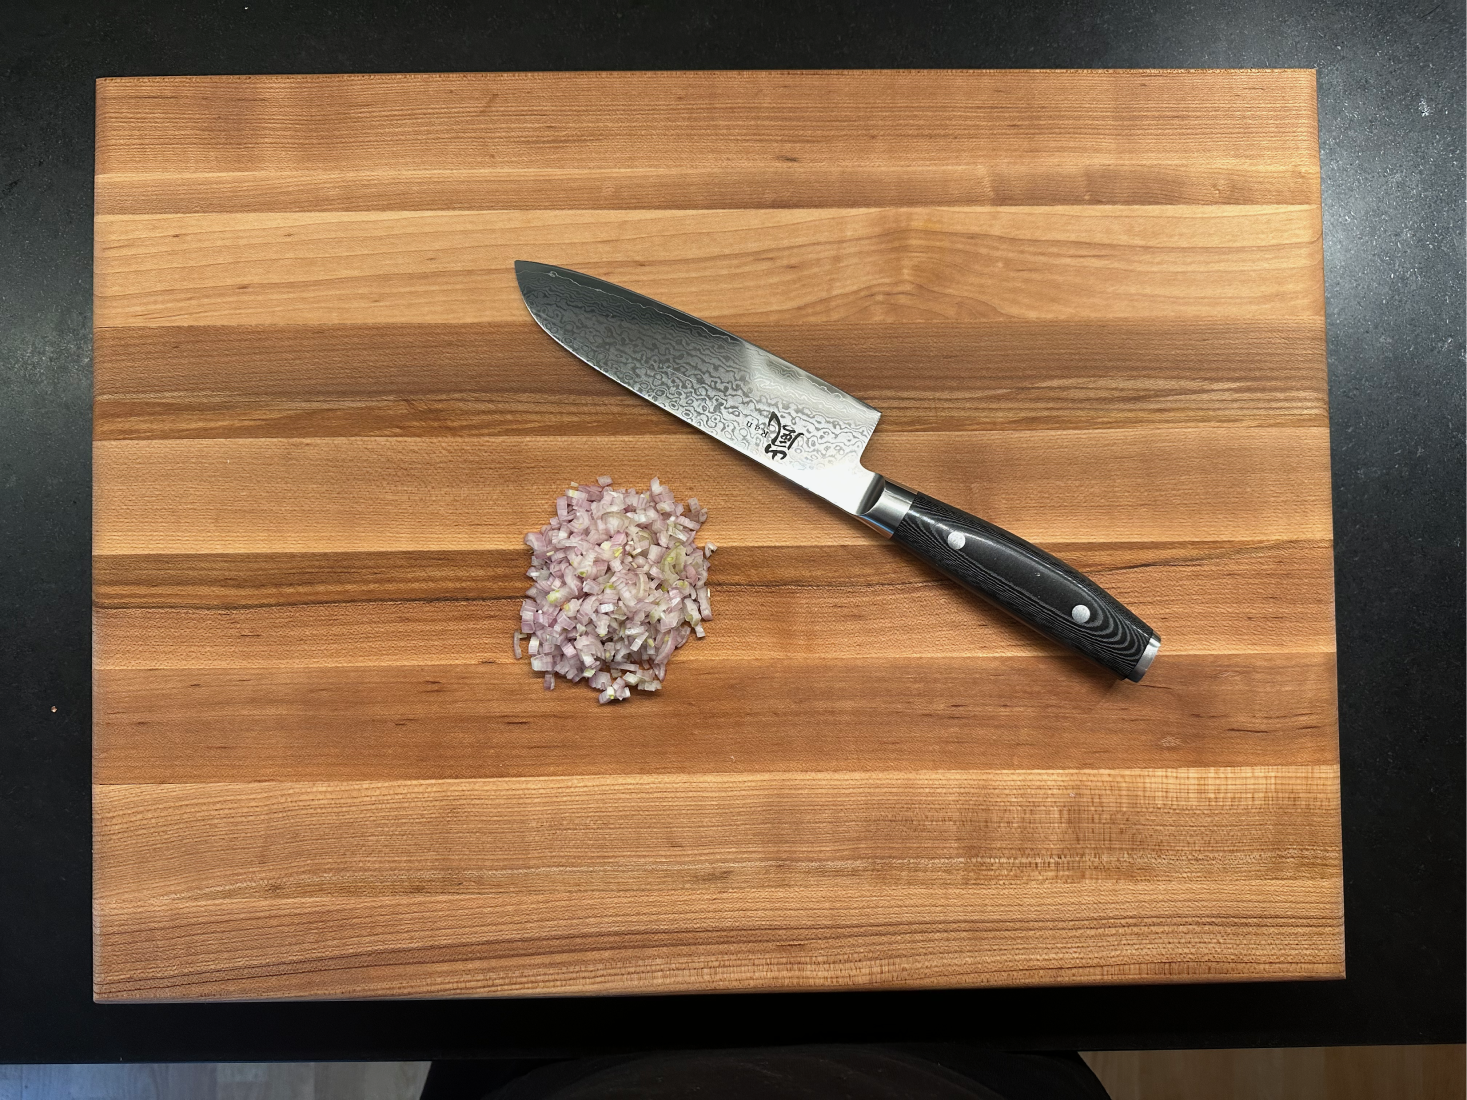
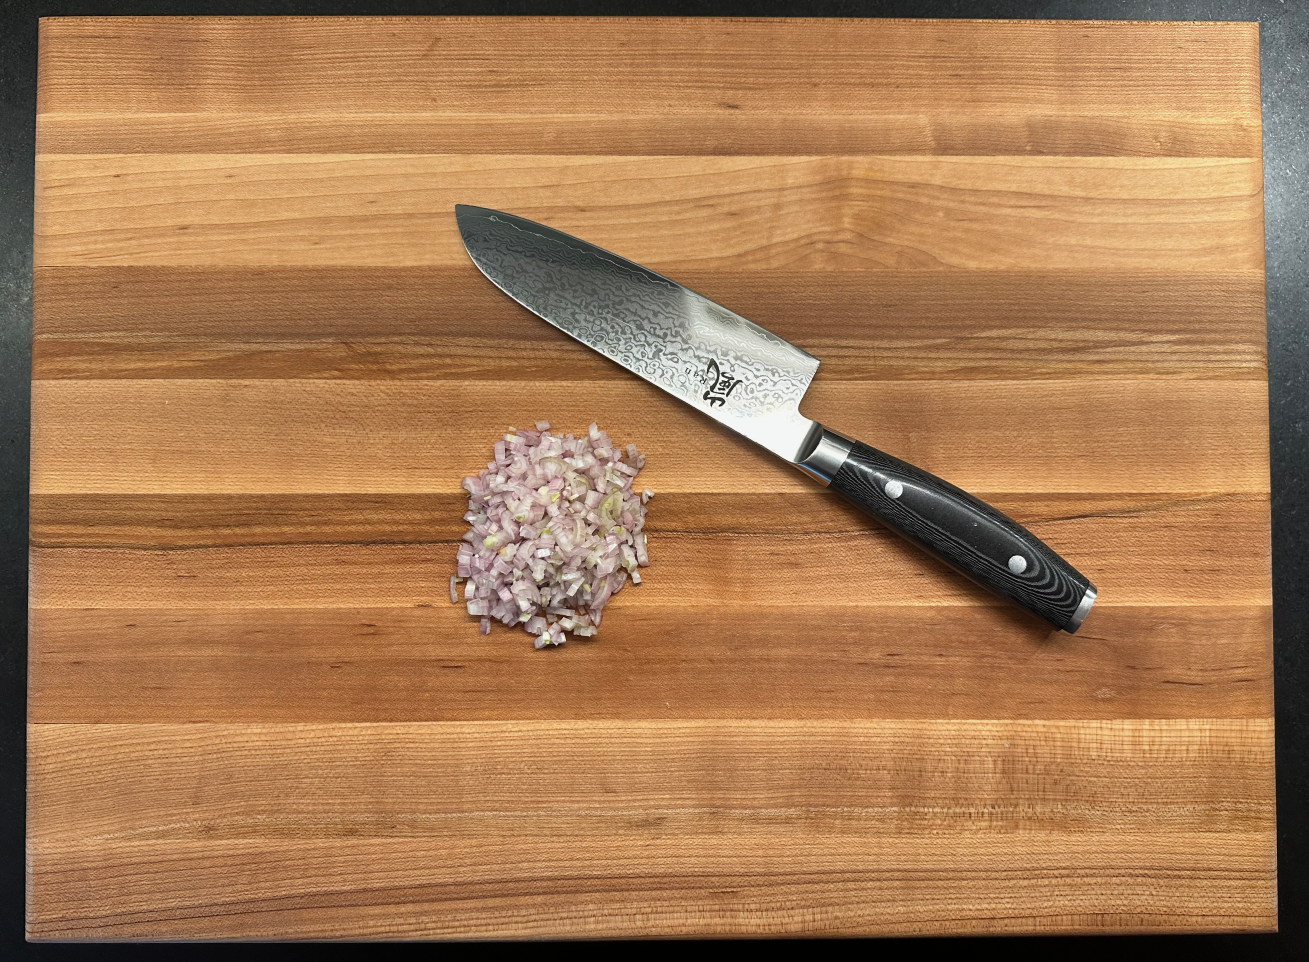
Update bordelaise images

diff --git a/pages/food-and-drinks/bordelaise-sauce.tsx b/pages/food-and-drinks/bordelaise-sauce.tsx
@@ -11,7 +11,7 @@ import heroImage from "public/images/recipes/bordelaise-sauce/thumbnails/tall.pn
 import metaImage from "public/images/recipes/bordelaise-sauce/thumbnails/meta.png";
 import image1 from "public/images/recipes/bordelaise-sauce/1.png";
 import image2 from "public/images/recipes/bordelaise-sauce/2.png";
-import image3 from "public/images/recipes/bordelaise-sauce/3.png";
+import image3 from "public/images/recipes/bordelaise-sauce/3_1.png";
 import image4 from "public/images/recipes/bordelaise-sauce/4.png";
 import image5 from "public/images/recipes/bordelaise-sauce/5.png";
 
